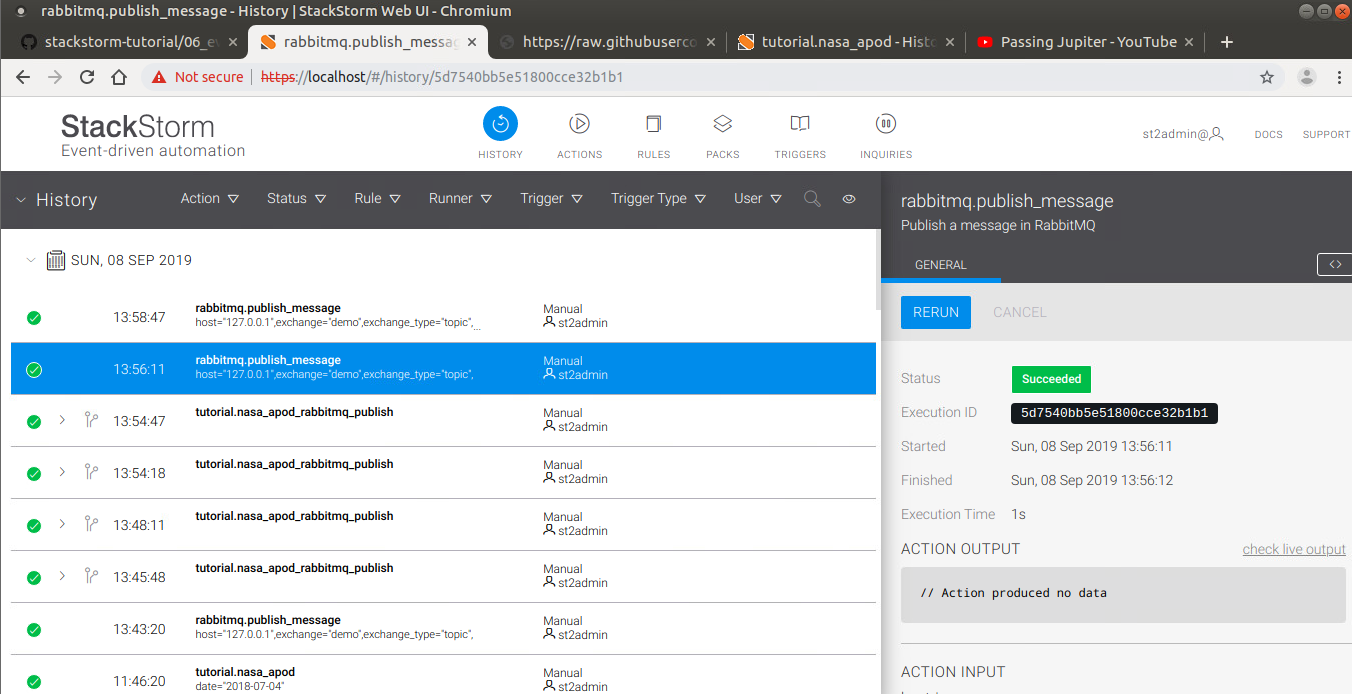
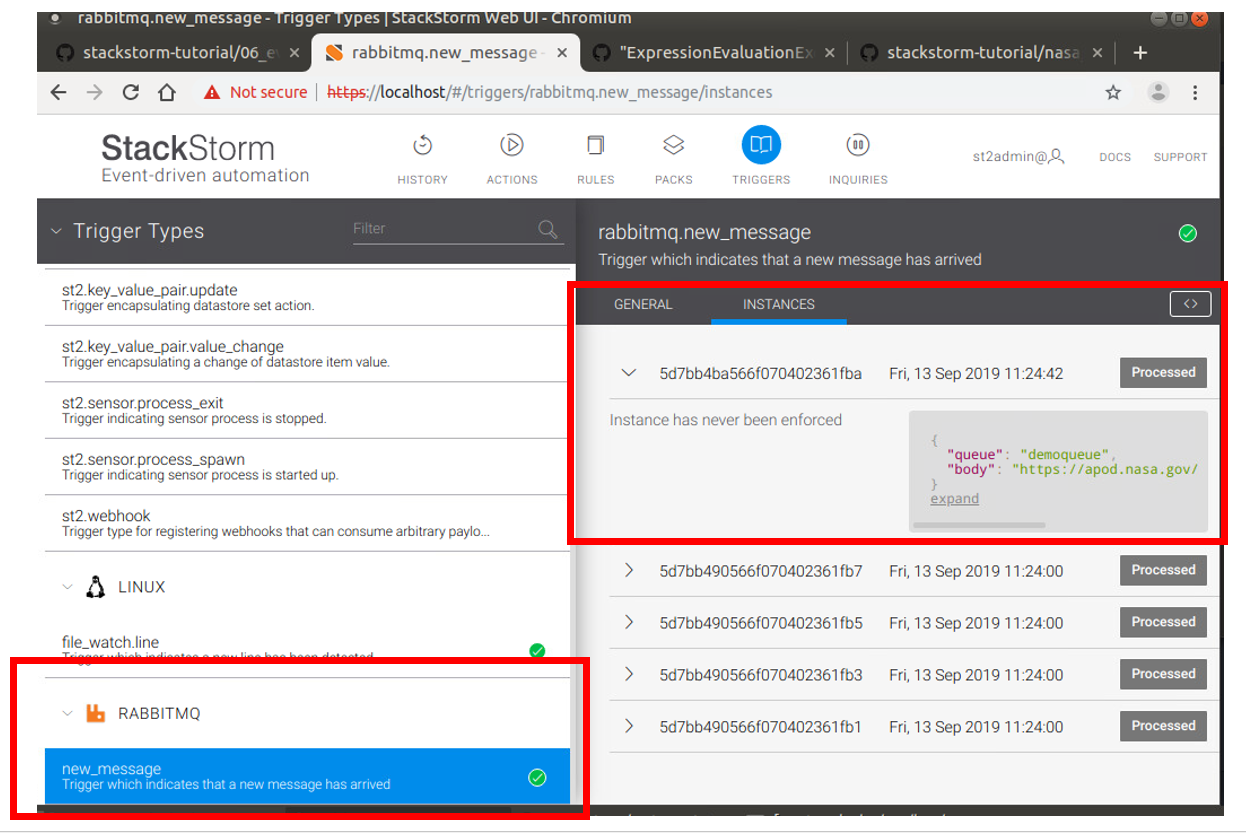
beta5

diff --git a/doc/06_event_driven.md b/doc/06_event_driven.md
@@ -101,6 +101,10 @@ I know its late in the training to tell you about the GUI but I think you need t
 It's difficult to develop actions and rules using the GUI but it's excellent for seeing the execution
 history.
 
+If you click on the `triggers` at the top and scroll down the list on the left, you will see the rabbitmq trigger instance.
+On the right of the screen, if there have been any instances of the trigger they will appear here.
+You can click on the processed button and see the message.
+
 ![Watching - Getting feedback](/img/watching.png)
 
 ## Configure the Rule
